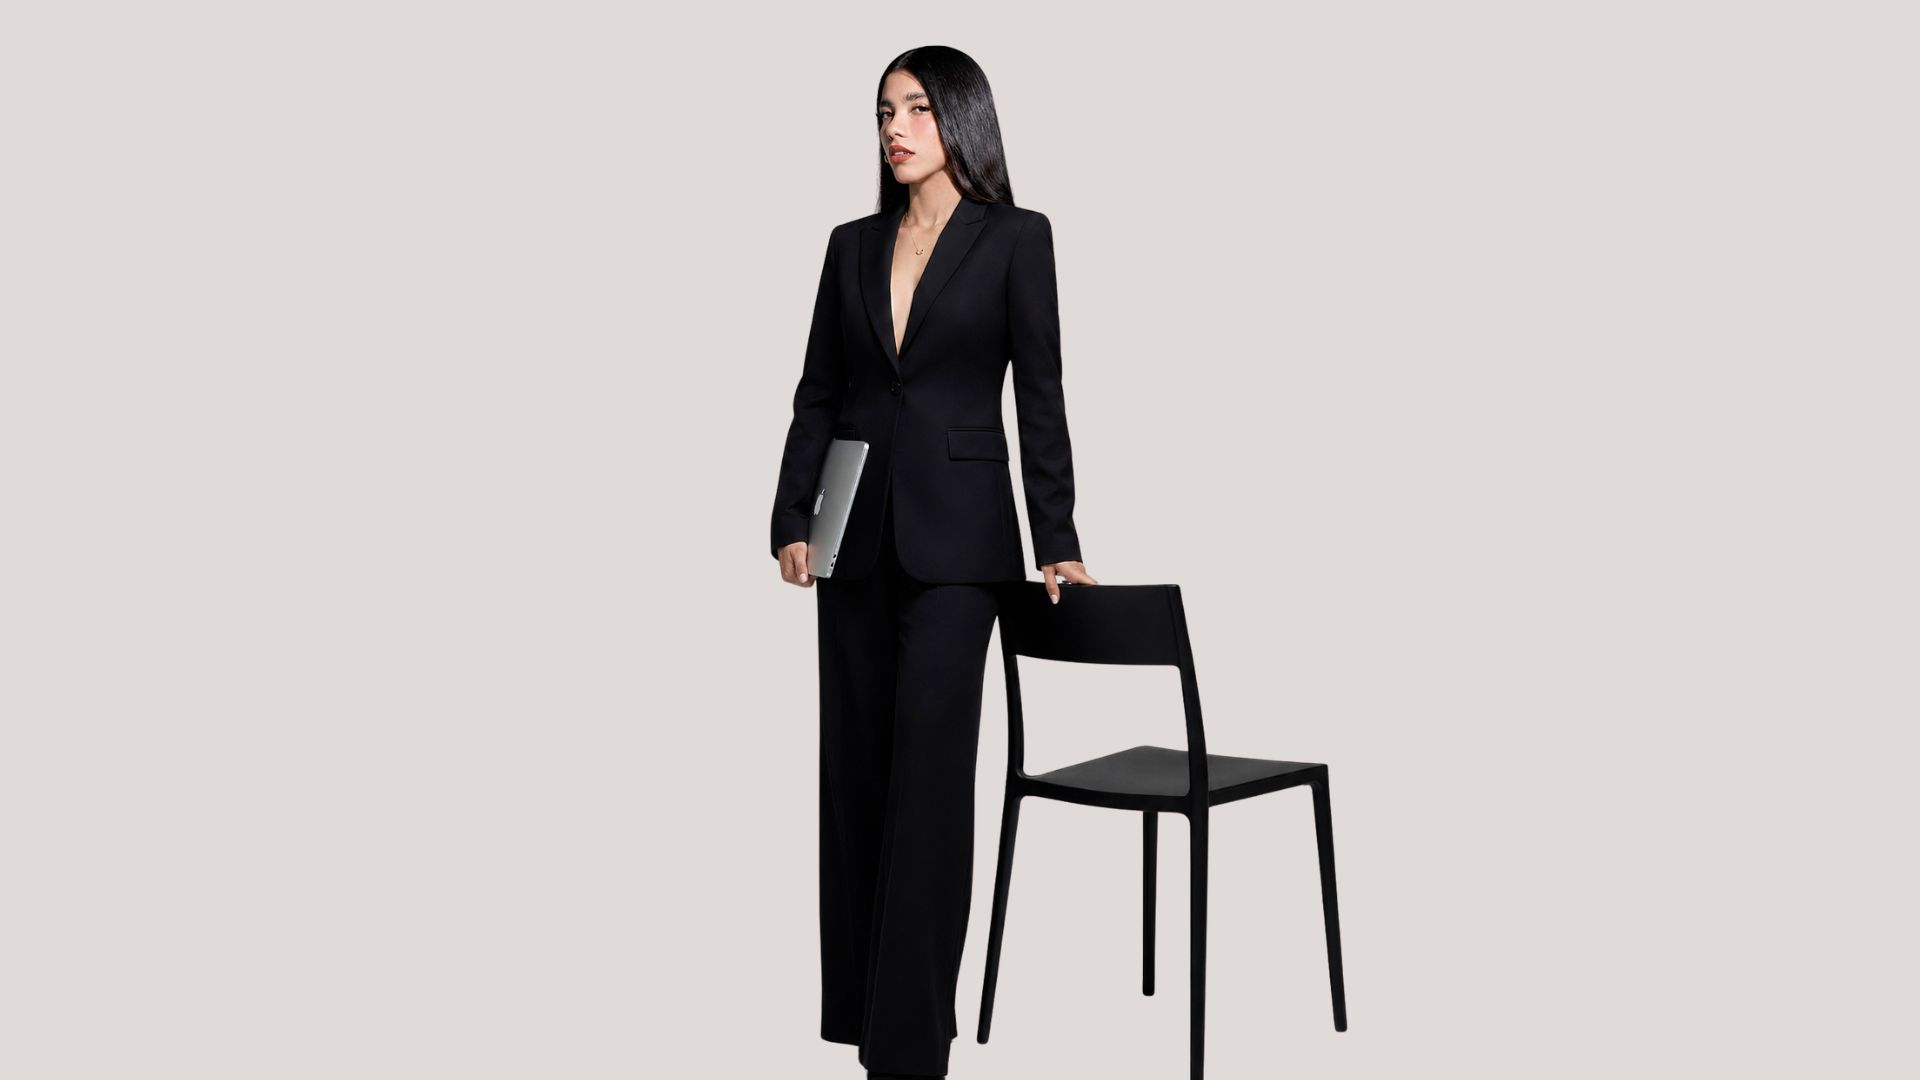
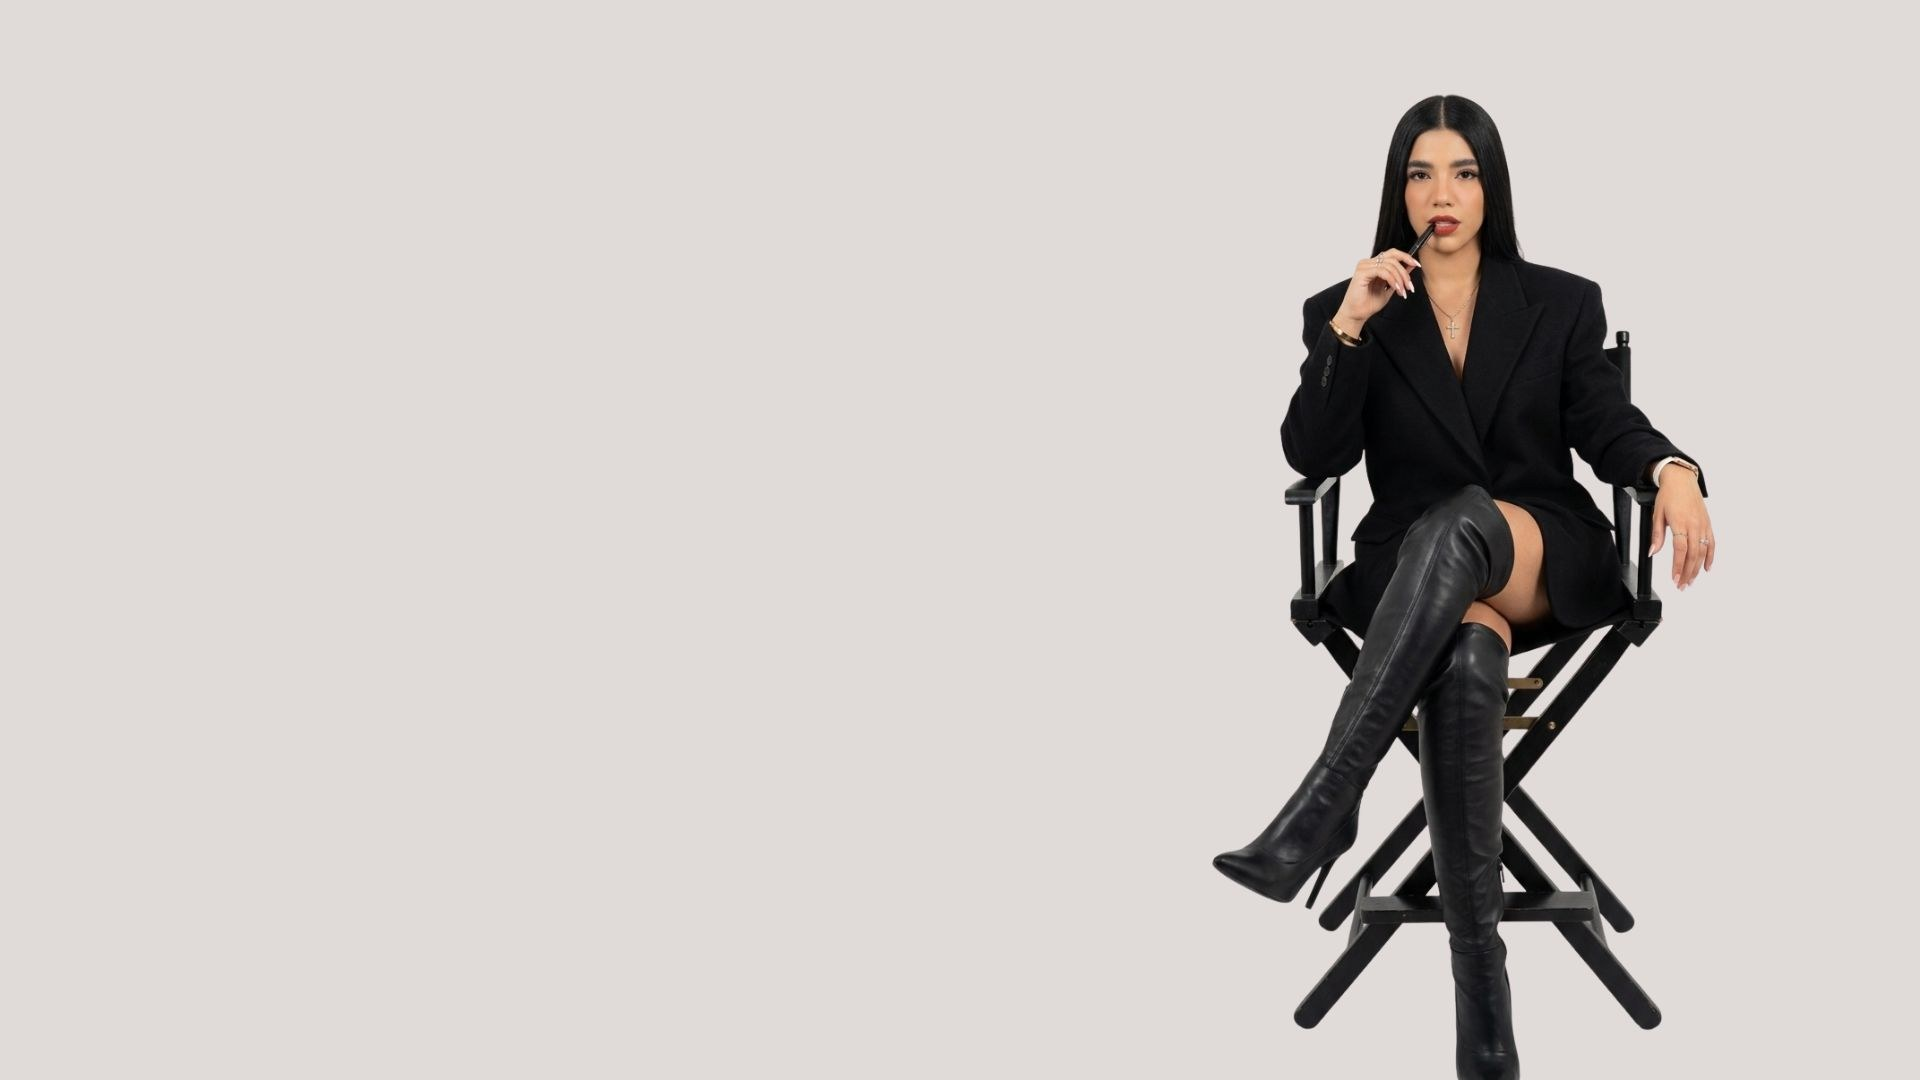
feat(hero): nueva foto donde Sarahi está a la derecha (#8)
- Reemplaza sarahi-hero-horizontal.jpg con foto de silla de director
- Mobile: cambia aspect a 4/5 con object-right para enfocar a Sarahi
  (la foto es 16:9 con espacio gris a la izquierda, en móvil quedaba
  muy chica si se mostraba completa)
- Desktop: ya usaba object-right, sigue funcionando perfecto y el
  texto SARAHI HARO ya no choca con la imagen

Changed region(s): [[0.375, 0.0306, 0.9062, 1.0]]

diff --git a/src/app/page.tsx b/src/app/page.tsx
@@ -59,13 +59,13 @@ export default function HomePage() {
         </div>
         {/* Foto full-width */}
         <Reveal delay={150}>
-          <div className="relative aspect-[16/9] overflow-hidden">
+          <div className="relative aspect-[4/5] overflow-hidden">
             <Image
               src="/images/sarahi/sarahi-hero-horizontal.jpg"
               alt="Sarahi Haro — Asesora de imagen y coach de marca personal"
               fill
               priority
-              className="object-cover object-center"
+              className="object-cover object-right"
               sizes="100vw"
             />
           </div>
